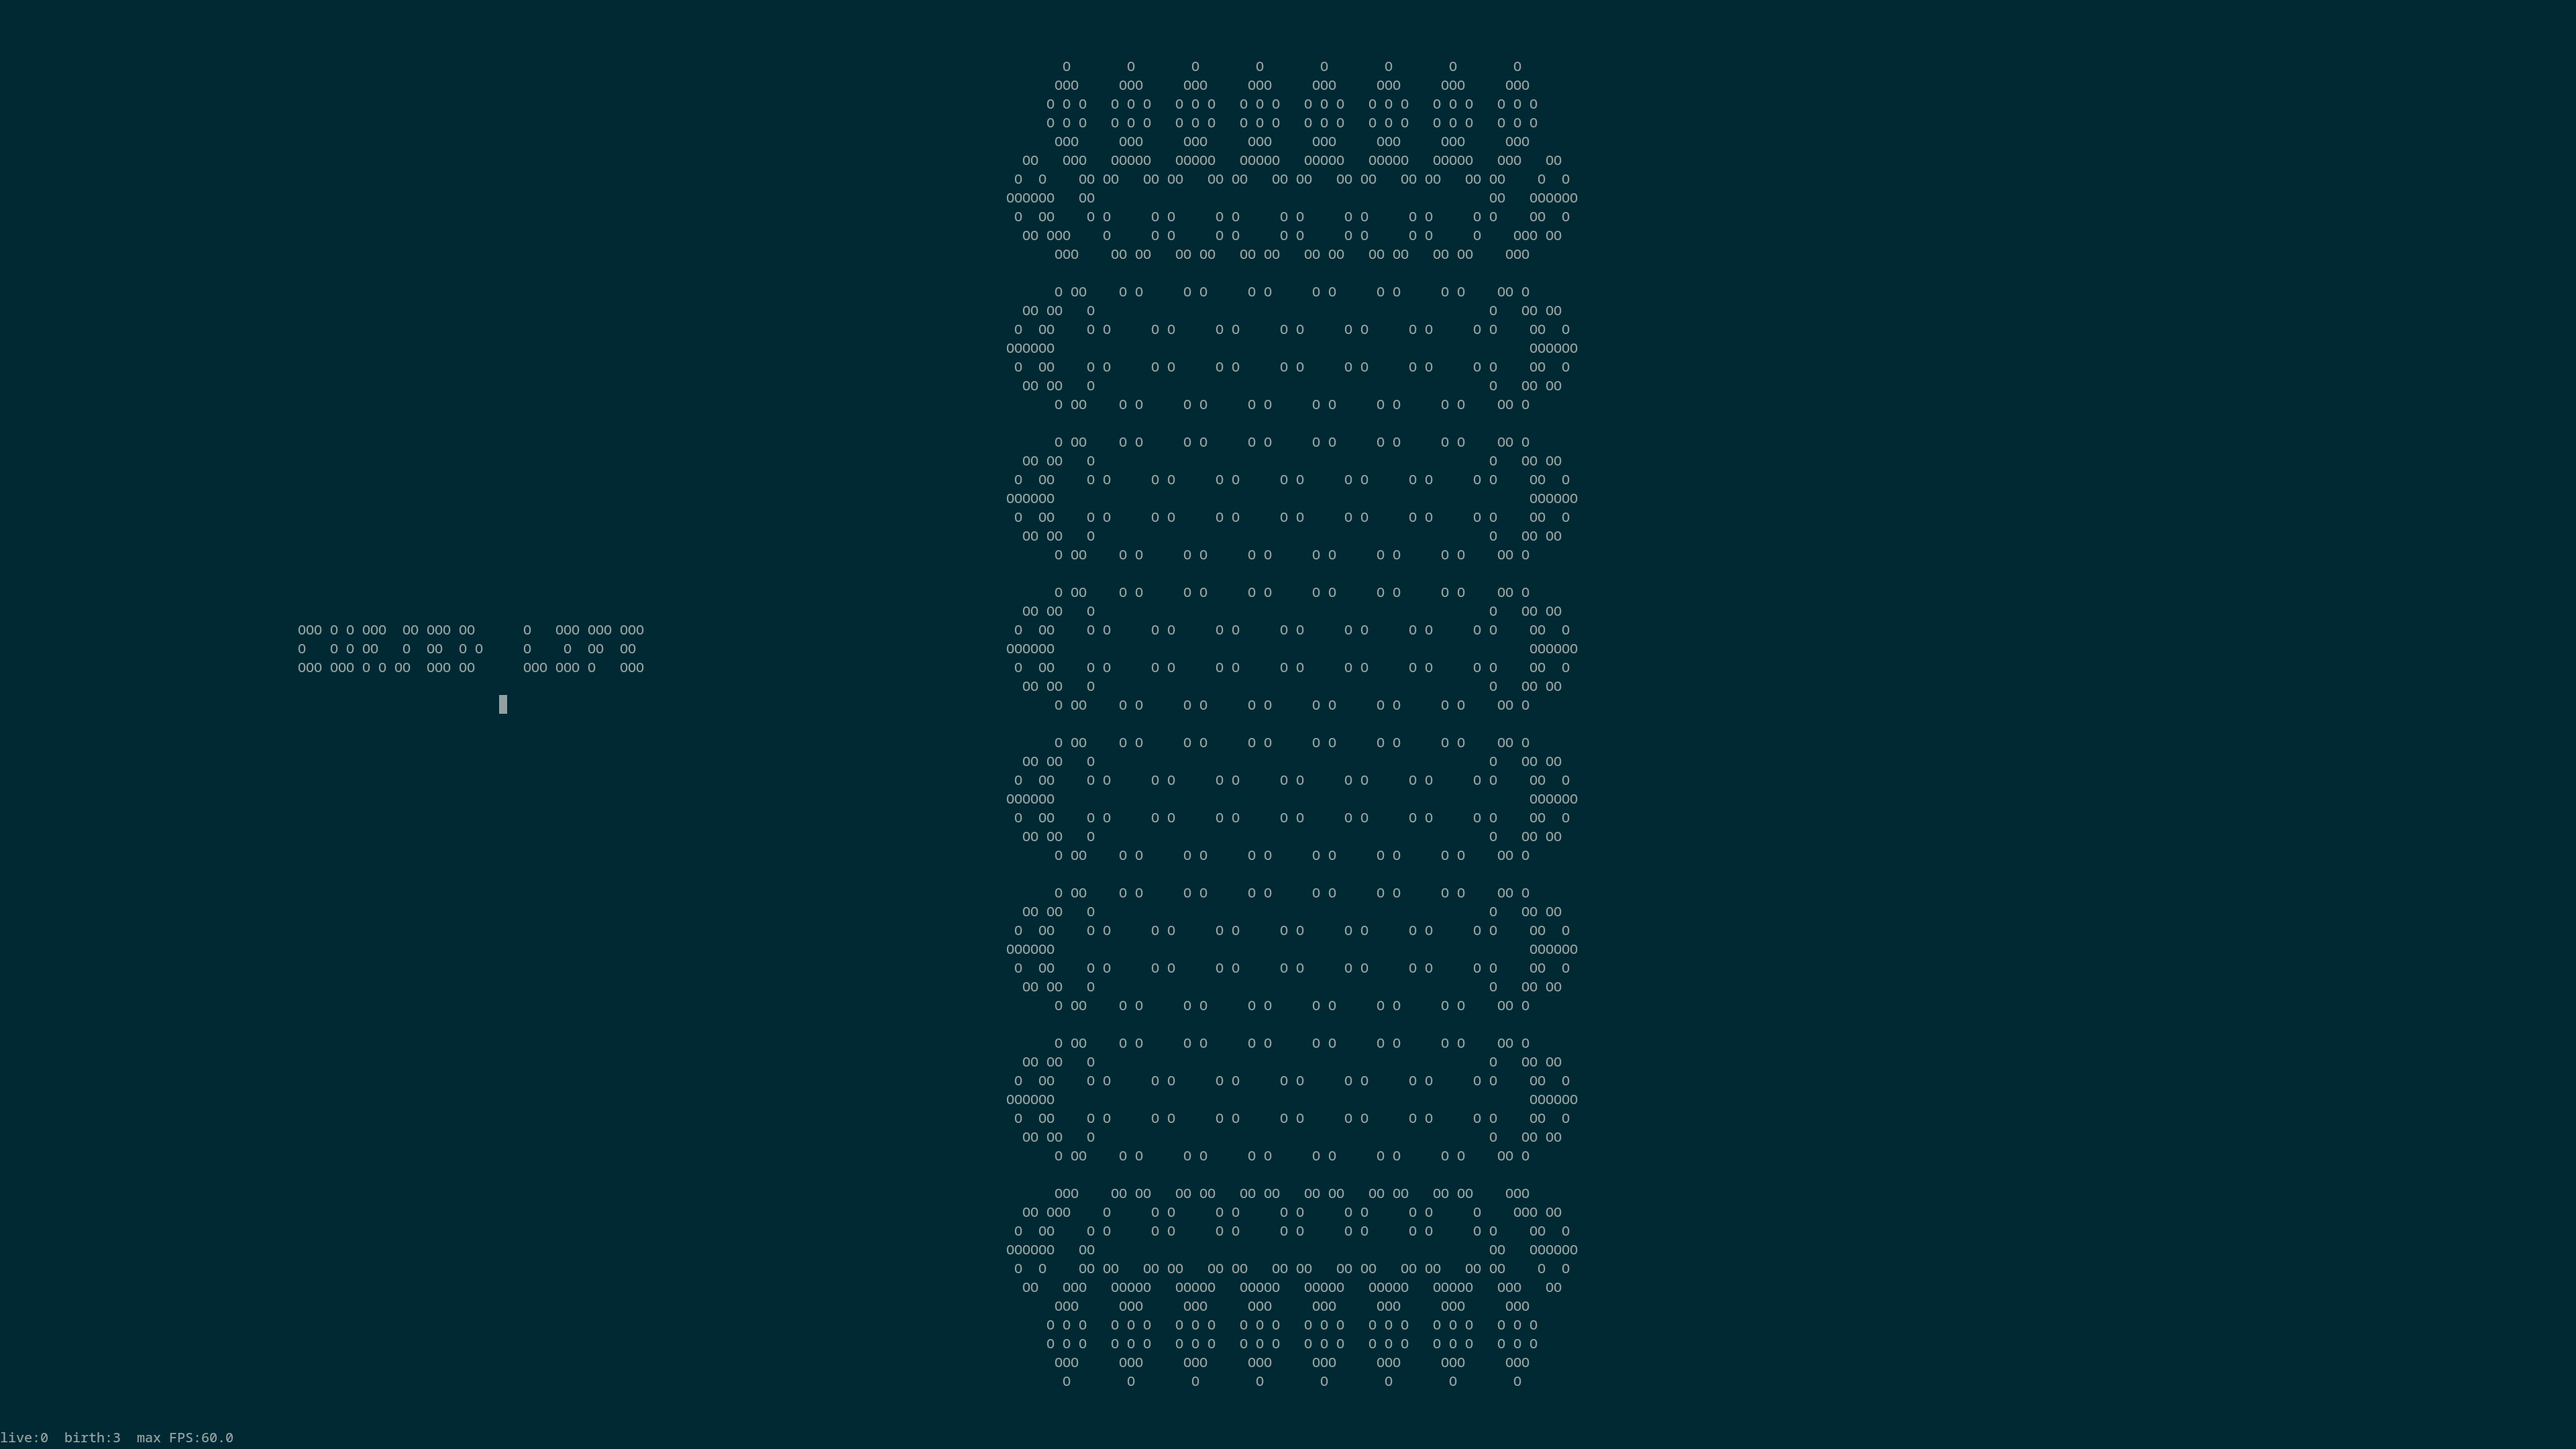
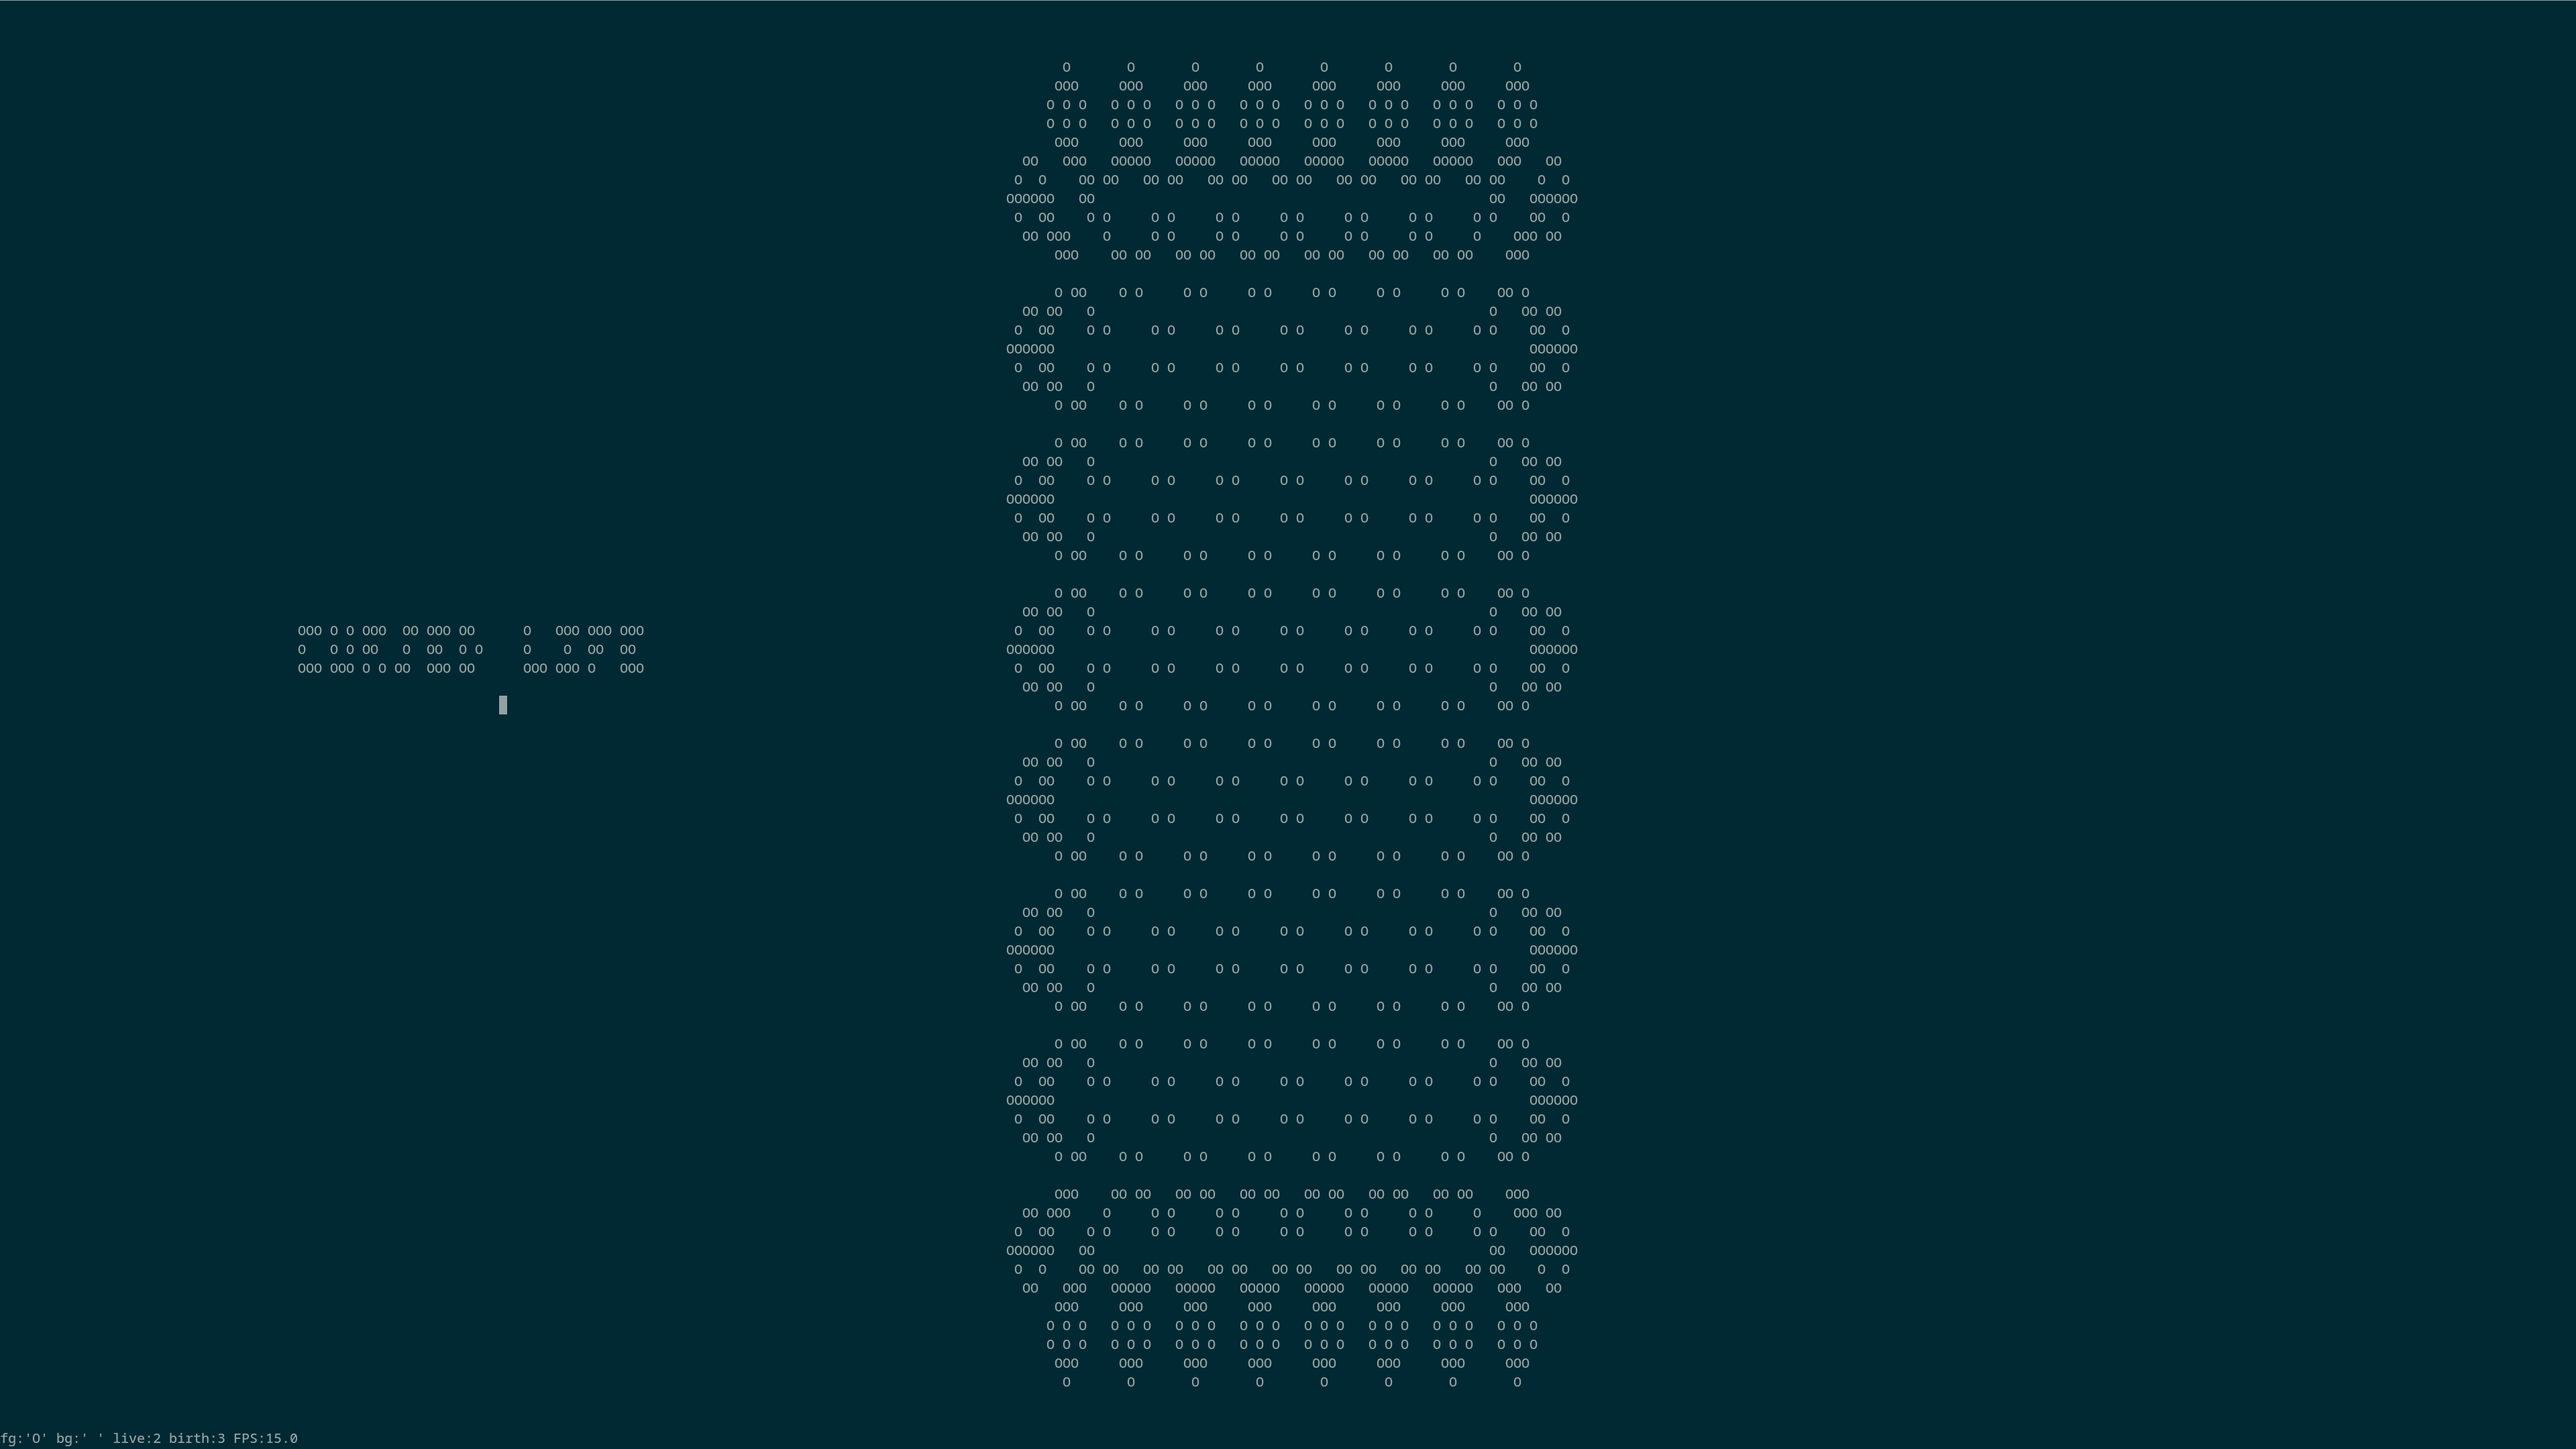
Changeable display chars

diff --git a/src/main.rs b/src/main.rs
@@ -94,11 +94,11 @@ fn gol_step(grid: &Vec<Vec<bool>>, live: i32, birth: i32) -> Vec<Vec<bool>> {
 
 
 // creates the string for the toolbar.
-fn gen_toolbar<I, F>(live: I, birth: I, framerate: F) -> String where
+fn gen_toolbar<I, F>(fg_char: char, bg_char: char, live: I, birth: I, framerate: F) -> String where
     I: std::fmt::Display,
     F: std::fmt::Display,
 {
-    format!("live:{}  birth:{}  max FPS:{:.1}", live, birth, framerate)
+    format!("fg:'{}' bg:'{}' live:{} birth:{} FPS:{:.1}", fg_char, bg_char, live, birth, framerate)
 }
 
 
@@ -112,9 +112,14 @@ fn redraw(window: &pancurses::Window, text: &str) {
 }
 
 
+fn valid_chars(c: char) -> bool{
+    c.is_alphanumeric() || c.is_whitespace() || c.is_ascii_punctuation()
+}
+
+
 fn main() {
-    let ch_t = 'O';
-    let ch_f = ' ';
+    let mut ch_t = 'O';
+    let mut ch_f = ' ';
     let mut live: i32 = 2;
     let mut birth: i32 = 3;
     let framerates = [0.5, 1., 2., 5., 10., 15., 20., 30., 45., 60., 90., 120., 999.];
@@ -127,7 +132,7 @@ fn main() {
 
     macro_rules! redraw_all {
         () => {
-            redraw(&window, &(grid_to_str(&matrix, ch_t, ch_f)+&gen_toolbar(live, birth, framerates[framerate])));
+            redraw(&window, &(grid_to_str(&matrix, ch_t, ch_f)+&gen_toolbar(ch_t, ch_f, live, birth, framerates[framerate])));
         }
     }
 
@@ -213,7 +218,29 @@ fn main() {
                 }
             }
 
+            // change chars
+            Some(Input::Character('c')) => {
+                window.mv(cols-1, 4);
+                match window.getch() {
+                    Some(Input::Character(c)) => {
+                        if valid_chars(c) && c != ch_f {ch_t = c;}
+                    }
+                    _ => ()
+                }
+                redraw_all!();
+                window.mv(cols-1, 11);
+                match window.getch() {
+                    Some(Input::Character(c)) => {
+                        if valid_chars(c) && c != ch_t {ch_f = c;}
+                    }
+                    _ => ()
+                }
+                window.mv(cur_row, cur_col);
+                redraw_all!();
+            }
+
             // TODO resize. Seems like it's missing a lot of resize fns in the docs.
+            // Blocking issue for 1.0
             Some(Input::KeyResize) => {
                 window.clear();
                 window.refresh();

diff --git a/README.md b/README.md
@@ -1,4 +1,4 @@
-# cursed_life 0.10.1
+# cursed_life 0.11.0
 basically game of life in ncurses. doesn't use cutting-edge algorithms. more of a small Rust exercise than anything.
 
 <img width=720 src="./thick_screenshot.png" />
@@ -18,6 +18,7 @@ Game of Life rules.
 
 System settings
  - comma/period ',.' : adjust max framerate. more of a guideline, based on delays.
+ - c                 : change dispaly characters.
 
 ### Playing
 Just run the file, use space to manually add lifeforms, and press e or f to advance. Don't resize the window; that's not implemented yet.
